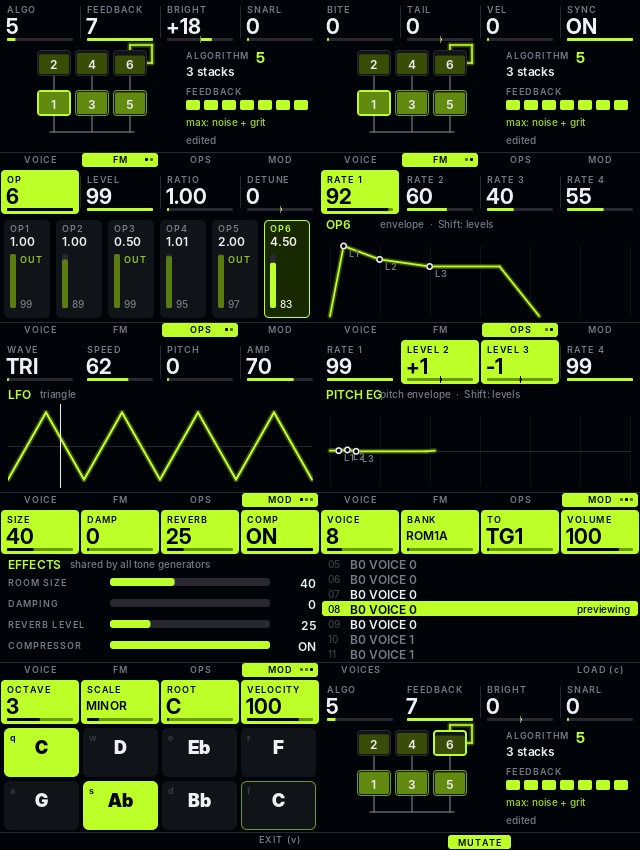
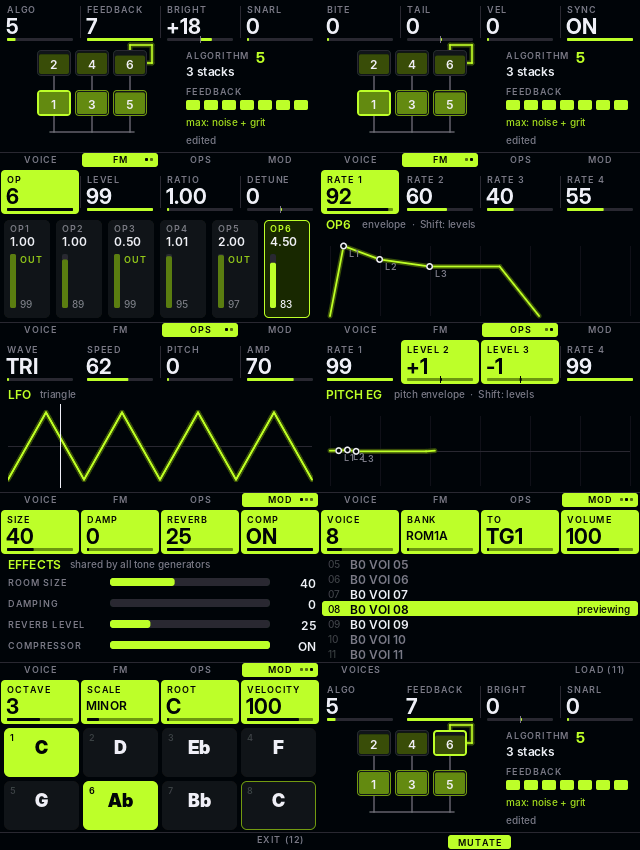
Number the keys 1-12 on screen, in docs and keymap
Claude-Session: https://claude.ai/code/session_01Wubh9qfz4yxQm7mE8iBdPv

diff --git a/tools/mockups/render_mockups.py b/tools/mockups/render_mockups.py
@@ -364,7 +364,7 @@ def page_browse(cv, sel=2):
         cv.text(30, y, name, BODY, INK if i == sel else (WHITE if abs(i - sel) == 1 else GREY))
         if i == sel:
             cv.text(200, y + 1, "playing preview", SMALL, INK, "right", 110)
-    footer(cv, labels=["VOICES", "PERFS", "", "LOAD (c)"], page=0)
+    footer(cv, labels=["VOICES", "PERFS", "", "LOAD (11)"], page=0)
 
 
 def page_keys(cv):
@@ -378,8 +378,8 @@ def page_keys(cv):
         root = n == "C"
         cv.rect(x, y, kw, kh, cv.a if pressed else PANEL, r=6, outline=dk(cv.a, 0.6) if root and not pressed else None)
         cv.text(x, y + 6, n, BIG, INK if pressed else WHITE, "center", kw)
-        cv.text(x + 6, y + 3, "qwerasdf"[i], LBL, INK if pressed else DIM)
-    footer(cv, labels=["", "", "", "EXIT (v)"])
+        cv.text(x + 6, y + 3, str(i + 1), LBL, INK if pressed else DIM)
+    footer(cv, labels=["", "", "", "EXIT (12)"])
 
 
 SHIFT = [
@@ -405,7 +405,7 @@ def page_shift(cv):
             lab = SHIFT[r][c]
             held = (r, c) == (2, 0)
             cv.rect(x, y, kw, kh, cv.a if held else PANEL, r=5)
-            cv.text(x + 6, y + 3, "qwerasdfzxcv"[r * 4 + c], LBL, INK if held else DIM)
+            cv.text(x + 6, y + 3, str(r * 4 + c + 1), LBL, INK if held else DIM)
             cv.text(x, y + 13, lab, BODY, INK if held else WHITE, "center", kw)
             cv.text(x, y + 26, NORMAL[r][c].lower(), ("Inter-Medium", 9), INK if held else GREY, "center", kw)
 
@@ -443,7 +443,7 @@ def device_frame(img, scale=2):
         for c in range(4):
             x, y = pad + c * kw + 6, ky + r * 92
             d.rounded_rectangle([x, y, x + kw - 12, y + 84], 10, fill=(250, 250, 250), outline=(200, 200, 205))
-            d.text((x + 10, y + 8), "qwerasdfzxcv"[r * 4 + c], fill=(150, 150, 155), font=F("Inter-SemiBold", 14))
+            d.text((x + 10, y + 8), str(r * 4 + c + 1), fill=(150, 150, 155), font=F("Inter-SemiBold", 14))
             d.text((x + 10, y + 56), NORMAL[r][c], fill=(60, 60, 65), font=F("Inter-SemiBold", 14))
     return fr
 

diff --git a/src/ui/zicui.cpp b/src/ui/zicui.cpp
@@ -21,7 +21,6 @@ static const KeyDef kKeyDefs[kKeyCount] = {
 	{ "TG MUTE", "< tg" },   { "TG SOLO", "tg >" },    { "SAVE VCE", "browse" }, { "SAVE PRF", "mix" },
 	{ "SHIFT", "shift" },    { "KEYS", "play" },       { "REVERT", "compare" }, { "MENU", "exit" },
 };
-static const char kKeyCaps[] = "qwerasdfzxcv";
 
 static void upper(char* dst, const char* src, int n)
 {
@@ -237,7 +236,8 @@ void Ui::drawMap()
 			int k = r * 4 + c, x = 4 + c * (kw + 2), y = 30 + r * 44;
 			bool held = k == K_Z;
 			g_.roundRect((float)x, (float)y, (float)kw, (float)kh, 5, held ? accent() : PANEL);
-			char cap[2] = { kKeyCaps[k], 0 };
+			char cap[3] = { 0, 0, 0 };                       // keys are numbered 1..12, top left to bottom right
+			if (k + 1 >= 10) { cap[0] = '1'; cap[1] = (char)('0' + (k + 1 - 10)); } else cap[0] = (char)('0' + k + 1);
 			g_.text(x + 6, y + 3, cap, fLbl, held ? INK : DIM);
 			g_.textAligned(x, y + 11, kw, kKeyDefs[k].shifted, fBody, held ? INK : WHITE, AL_CENTER);
 			g_.textAligned(x, y + 25, kw, kKeyDefs[k].normal, fTiny, held ? INK : GREY, AL_CENTER);

diff --git a/src/ui/soundpages.cpp b/src/ui/soundpages.cpp
@@ -376,7 +376,7 @@ public:
 
 	const char* const* keyLabels(Ctx&, int) override
 	{
-		static const char* const l[4] = { "VOICES", "", "", "LOAD (c)" };
+		static const char* const l[4] = { "VOICES", "", "", "LOAD (11)" };
 		return l;
 	}
 
@@ -495,7 +495,7 @@ public:
 
 	const char* const* keyLabels(Ctx&, int) override
 	{
-		static const char* const l[4] = { "", "", "", "EXIT (v)" };
+		static const char* const l[4] = { "", "", "", "EXIT (12)" };
 		return l;
 	}
 
@@ -559,7 +559,7 @@ private:
 			g.fillRect(x, y, kw, kh, BG);
 			g.roundRect((float)x, (float)y, (float)kw, (float)kh, 6, on ? c.accent : PANEL, (root && !on) ? dim(c.accent, 153) : Gfx::NoColor, 1.f);
 			g.textAligned(x, y + 8, kw, k.keyLabel(i), fHead, on ? INK : WHITE, AL_CENTER);
-			char cap[2] = { "qwerasdf"[i], 0 };
+			char cap[2] = { (char)('1' + i), 0 };
 			g.text(x + 6, y + 4, cap, fLbl, on ? INK : DIM);
 		}
 	}

diff --git a/docs/firmware-ui.md b/docs/firmware-ui.md
@@ -16,7 +16,7 @@ The screens in [ui-design.md](ui-design.md) run as real code. This page is for w
 ## Screen model
 
 - Top 44 px: one **lane** per encoder (label, value, bar). Turning a knob lights its lane for 0.6 s.
-- Middle 108 px: the page's picture. Bottom 18 px: labels for q w e r, sub-page dots, toasts.
+- Middle 108 px: the page's picture. Bottom 18 px: labels for keys 1-4, sub-page dots, toasts.
 - Everything takes the current TG's colour (`kTGColor`).
 - Only changed pixels go to the panel. `Ui::tick()` runs the live parts (scope, level ticks, TG dots) at 25 fps and skips them when nothing moves, so an idle screen sends nothing. `CZicUI::Flush()` sends at most 2400 pixels per main-loop pass so MIDI and USB are never starved by SPI.
 
@@ -24,7 +24,7 @@ The screens in [ui-design.md](ui-design.md) run as real code. This page is for w
 
 1. Implement `zic::Page` (`src/ui/zicpage.h`): `lane()` gives label/text/bar for each encoder, `turn()` applies an encoder step, `draw()` paints the picture, `tick()` updates its live parts, optional `keyLabels()` and `key()`.
 2. Talk to the synth only through `ISynth` (`src/ui/zicsynth.h`). Voices are the 155-byte unpacked DX7 layout; there are calls for loading and reading voices, notes, bank reading, reverb/compressor, mute and metering. The logic layer's `VoiceSink`, `ParamBus` and `BankSource` map one to one onto them.
-3. Add a factory to `zicpages.h` and one line to `RegisterPages()` in `src/ui/zicregistry.cpp`. The slot decides which key reaches it (`SLOT_FM` = w, `SLOT_OPS` = e, `SLOT_MOD` = r, `SLOT_BROWSE` = d, `SLOT_KEYS` = Shift+x). An empty slot shows a "not in this build" toast.
+3. Add a factory to `zicpages.h` and one line to `RegisterPages()` in `src/ui/zicregistry.cpp`. The slot decides which key reaches it (`SLOT_FM` = key 2, `SLOT_OPS` = key 3, `SLOT_MOD` = key 4, `SLOT_BROWSE` = key 7, `SLOT_KEYS` = Shift+key 10). An empty slot shows a "not in this build" toast.
 4. Add the page to `tools/sim/sim.cpp` for a screenshot and to `tests/ui/ui_test.cpp`.
 
 `Ctx` hands a page the `Gfx`, the `ISynth`, the `Ui` (current TG, mute/solo, smoothed level meter) and the clock. Encoder steps arrive already accelerated; with Shift held the raw step arrives and `fine` is true.
@@ -33,13 +33,13 @@ The screens in [ui-design.md](ui-design.md) run as real code. This page is for w
 
 | | |
 |---|---|
-| Keys | `q w e r / a s d f / z x c v` on GPIO `20 16 25 14 / 12 1 24 15 / 7 8 23 22`, active low, 6 ms debounce |
+| Keys | Keys 1-12, numbered top left to bottom right (rows 1-4 / 5-8 / 9-12), on GPIO `20 16 25 14 / 12 1 24 15 / 7 8 23 22`, active low, 6 ms debounce |
 | Encoders | 1..4 on GPIO `26/13, 6/5, 0/9, 27/4`, interrupt driven. Turn speed sets the step: under 12 ms per click x6, under 25 ms x3, under 60 ms x2, else x1 |
 | Direction | `ZicEncoderInvert` in `minidexed.ini`: bit n reverses encoder n+1 |
 
-Implemented keys in this build: `q` VOICE (press again for sub-pages), `f` MIX, `a`/`s` TG-/TG+, `x` PLAY (hold), `c` COMPARE (hold), `v` EXIT home (hold 0.7 s = panic), `z` SHIFT (hold 0.25 s shows the key map; `Shift+a` TG mute, `Shift+s` TG solo, `Shift+c` revert, `Shift+v` stock menu). 
+Keys: 1 VOICE (press again for sub-pages), 2 FM, 3 OPS, 4 MOD, 5/6 TG-/TG+, 7 BROWSE, 8 MIX, 9 SHIFT (hold 0.25 s shows the key map), 10 PLAY (hold), 11 COMPARE (hold), 12 EXIT home (hold 0.7 s = panic). With Shift: 1 INIT, 2 MUTATE, 3 OP MUTE, 4 FX, 5 TG mute, 6 TG solo, 7 SAVE VOICE, 8 SAVE PERFORMANCE, 10 KEYS pads, 11 revert, 12 stock menu.
 
-In the stock menu: `v` select, `c` back, `d` home, `a`/`s` program, `q`/`w` TG, `e`/`r` bank, any encoder scrolls, `Shift+v` returns to the ZicDexed screens.
+In the stock menu: key 12 select, key 11 back, key 7 home, keys 5/6 program, keys 1/2 TG, keys 3/4 bank, any encoder scrolls, Shift+key 12 returns to the ZicDexed screens.
 
 ## ini keys (config/minidexed.ini)
 
@@ -54,10 +54,10 @@ With `ZicUI=1` the stock `ButtonPin*` and `EncoderEnabled` must be off (the ship
 ## Checks on the hardware
 
 1. Screen shows VOICE in the TG1 colour, not shifted or flipped (`ST7789Rotation` if so).
-2. Each key does something (q f a s x c v z); z, x, r, f are the ones that share pins with SPI and UART.
+2. Each key does something; keys 9, 10, 4 and 8 are the ones that share pins with SPI and UART.
 3. Each encoder lights its own lane; if one runs backwards set its bit in `ZicEncoderInvert`.
 4. With a USB keyboard playing: the scope moves, the TG dots light, MIX level ticks follow.
-5. Hold `x` and hear a note with nothing plugged in; hold `c` and hear the stored voice, release and get your edit back.
+5. Hold key 10 and hear a note with nothing plugged in; hold key 11 and hear the stored voice, release and get your edit back.
 
 ## Sound-design pages (FM, OPS, ENV, MOD, BROWSE, KEYS)
 
@@ -65,14 +65,14 @@ With `ZicUI=1` the stock `ButtonPin*` and `EncoderEnabled` must be off (the ship
 
 | Key | Page |
 |---|---|
-| `w` | FM: Algo, Feedback, Bright, Snarl. Press again: Bite, Tail, Vel, Sync |
-| `e` | OPS: Op, Level, Ratio (Shift = fine), Detune. Press again: operator envelope, rates (Shift = levels) |
-| `r` | MOD: LFO (wave, speed, pitch, amp), pitch EG, FX (reverb size, damping, level, compressor) |
-| `d` | BROWSE: turning Voice previews on the target TG; `c` loads, leaving the page undoes the preview |
-| `Shift+x` | KEYS: `q w e r a s d f` play the current scale on the current TG |
-| `Shift+q/w/e` | INIT, MUTATE, OP MUTE (selected operator) |
-| `Shift+r` | FX: jumps to the MOD page's effects sub-page |
-| `Shift+d` | SAVE VOICE: writes the edit voice into the user bank `sysex/voice/000099_ZICUSER.syx` (bank 99; same name = same slot, otherwise the next free one). It shows up in BROWSE after a restart |
-| `Shift+f` | SAVE PERFORMANCE: needs a `performance` folder at the card root (MiniDexed refuses to save without it; `build.sh` puts an empty one in `out/`, copy it over). Overwrites the current performance, i.e. every TG's voice (edits included), levels, pans and the effects |
+| Key 2 | FM: Algo, Feedback, Bright, Snarl. Press again: Bite, Tail, Vel, Sync |
+| Key 3 | OPS: Op, Level, Ratio (Shift = fine), Detune. Press again: operator envelope, rates (Shift = levels) |
+| Key 4 | MOD: LFO (wave, speed, pitch, amp), pitch EG, FX (reverb size, damping, level, compressor) |
+| Key 7 | BROWSE: turning Voice previews on the target TG; key 11 loads, leaving the page undoes the preview |
+| Shift+key 10 | KEYS: keys 1-8 play the current scale on the current TG |
+| Shift+keys 1/2/3 | INIT, MUTATE, OP MUTE (selected operator) |
+| Shift+key 4 | FX: jumps to the MOD page's effects sub-page |
+| Shift+key 7 | SAVE VOICE: writes the edit voice into the user bank `sysex/voice/000099_ZICUSER.syx` (bank 99; same name = same slot, otherwise the next free one). It shows up in BROWSE after a restart |
+| Shift+key 8 | SAVE PERFORMANCE: needs a `performance` folder at the card root (MiniDexed refuses to save without it; `build.sh` puts an empty one in `out/`, copy it over). Overwrites the current performance, i.e. every TG's voice (edits included), levels, pans and the effects |
 
 The hub keeps one `EditSession` per TG and re-reads the synth's live voice on every entry point, so COMPARE, revert, program changes and SysEx all show up. FM macro amounts reset to 0 when that happens. OP MUTE only silences the sound. SAVE VOICE saves the edit voice, so muted operators are saved at their real level; SAVE PERFORMANCE saves what the synth is playing, so un-mute first.

diff --git a/docs/ui-design.md b/docs/ui-design.md
@@ -10,7 +10,7 @@ The 4 encoders sit **above** the screen and the 12 keys sit **below** it. So the
 |---|---|---|
 | Encoder lanes | top 44 px | One lane per knob, directly under it: label, big value, value bar (bipolar ones grow from the centre). Turning a knob lights its lane up solid for a moment, which is the "you touched this" feedback |
 | Picture | middle ~106 px | Each page's hero visual: voice name with a live scope, algorithm, operators, envelope, LFO, mixer strips |
-| Key labels | bottom 16 px | Labels for the top key row (q w e r), the row nearest the screen. Dots show sub-pages |
+| Key labels | bottom 16 px | Labels for the top key row (keys 1-4), the row nearest the screen. Dots show sub-pages |
 
 ## 2. Colour and type
 
@@ -21,17 +21,19 @@ The 4 encoders sit **above** the screen and the 12 keys sit **below** it. So the
 ## 3. Key map
 
 ```
- q VOICE    w FM       e OPS       r MOD        ← direct page keys; press again for sub-page
- a < TG     s TG >     d BROWSE    f MIX
- z SHIFT    x PLAY     c COMPARE   v EXIT
+ 1 VOICE    2 FM       3 OPS       4 MOD        ← direct page keys; press again for sub-page
+ 5 < TG     6 TG >     7 BROWSE    8 MIX
+ 9 SHIFT    10 PLAY    11 COMPARE  12 EXIT
+
+Keys are numbered 1-12, top left to bottom right.
 ```
 
 **With Shift held,** the screen turns into a live map of these (mockup 09):
 
 ```
- q INIT     w MUTATE   e OP MUTE   r FX
- a TG MUTE  s TG SOLO  d SAVE VCE  f SAVE PRF
- z (held)   x KEYS     c REVERT    v MENU
+ 1 INIT     2 MUTATE   3 OP MUTE   4 FX
+ 5 TG MUTE  6 TG SOLO  7 SAVE VCE  8 SAVE PRF
+ 9 (held)   10 KEYS    11 REVERT   12 MENU
 ```
 
 - **Page keys** jump straight to a page, so there's no cycling. Pressing a page key again moves through its sub-pages:
@@ -44,7 +46,7 @@ The 4 encoders sit **above** the screen and the 12 keys sit **below** it. So the
 - **INIT:** loads a basic starting voice.
 - **Shift + encoder:** fine steps.
 - **Fast turns** accelerate. That matters for the DX7's 0-99 ranges on encoders with no push switch.
-- **Long-press v:** panic (all notes off).
+- **Long-press key 12:** panic (all notes off).
 
 ## 4. Pages (mockups 01-09)
 
@@ -55,8 +57,8 @@ The 4 encoders sit **above** the screen and the 12 keys sit **below** it. So the
 | 03 OPS | Op, Level, Ratio, Detune | 6 operator cards: ratio, level bar, carriers marked OUT, selected card outlined |
 | 04 OPS → envelope | Rate 1-4 (Shift: Level 1-4) | The selected operator's envelope drawn live |
 | 05 MOD | Wave, Speed, Pitch depth, Amp depth | LFO waveform with a moving phase line. Sub-pages: pitch EG, then FX (reverb, compressor, GRIT later) |
-| 06 MIX | TG, Volume, Pan, Reverb | 8 channel strips in their TG colours, with live level ticks and mute state. q/w mute/solo here |
-| 07 BROWSE | Voice, Bank, Target TG, Volume | List. Turning the knob previews each voice live. c loads, v cancels |
+| 06 MIX | TG, Volume, Pan, Reverb | 8 channel strips in their TG colours, with live level ticks and mute state. keys 1/2 mute/solo here |
+| 07 BROWSE | Voice, Bank, Target TG, Volume | List. Turning the knob previews each voice live. key 11 loads, key 12 cancels |
 | 08 KEYS | Octave, Scale, Root, Velocity | The 8 upper keys become a playable scale |
 | 09 SHIFT | (encoders give fine steps) | Key map of the Shift functions |
 
@@ -81,5 +83,5 @@ Unchanged from v1:
 1. **Hardware:** all 12 keys and all 4 encoders with acceleration.
 2. **UI framework:** lanes, key-label band, the VOICE and MIX pages, and COMPARE/PLAY. This is the first flashable build.
 3. **Sound-design pages:** FM, OPS and envelope, plus the macros and MUTATE.
-4. **BROWSE, KEYS and the Shift map.** The stock menu stays as a fallback under Shift+v.
+4. **BROWSE, KEYS and the Shift map.** The stock menu stays as a fallback under Shift+key 12.
 5. **MOD page,** then the optional GRIT effect.

diff --git a/README.md b/README.md
@@ -2,11 +2,11 @@
 
 MiniDexed (8 x DX7 FM synth, bare metal) for the **ZicPixel** hardware. It uses the 320x170 screen, all 4 encoders and all 12 keys, with a control layout taken from zicBox.
 
-Hardware: Pi Zero 2 W, ST7789 1.9" 170x320 on SPI0 (DC GPIO3, RST GPIO17, no CS, SPI mode 3), PCM5102 I2S DAC, 4 encoders without push (26/13, 6/5, 0/9, 27/4), 12 keys q20 w16 e25 r14 / a12 s1 d24 f15 / z7 x8 c23 v22 (active low).
+Hardware: Pi Zero 2 W, ST7789 1.9" 170x320 on SPI0 (DC GPIO3, RST GPIO17, no CS, SPI mode 3), PCM5102 I2S DAC, 4 encoders without push (26/13, 6/5, 0/9, 27/4), 12 keys, numbered 1-12 from top left to bottom right, on GPIO 20 16 25 14 / 12 1 24 15 / 7 8 23 22 (active low).
 
 ## Status
 
-First flashable build of the new UI: the screen framework (lanes, key band, per-TG colour, Shift key map), all 12 keys and 4 encoders with acceleration, the VOICE and MIX pages, PLAY and COMPARE, and the stock menu under Shift+v. FM, OPS, MOD, BROWSE and KEYS are the next pages and show a "not in this build" toast. The design is in [docs/ui-design.md](docs/ui-design.md), how it is built is in [docs/firmware-ui.md](docs/firmware-ui.md).
+First flashable build of the new UI: the screen framework (lanes, key band, per-TG colour, Shift key map), all 12 keys and 4 encoders with acceleration, the VOICE and MIX pages, PLAY and COMPARE, and the stock menu under Shift+key 12. FM, OPS (with envelopes), MOD (LFO, pitch EG, FX), BROWSE and KEYS pages, INIT, MUTATE, OP MUTE, SAVE VOICE and SAVE PERFORMANCE are on the sound-design branch. The design is in [docs/ui-design.md](docs/ui-design.md), how it is built is in [docs/firmware-ui.md](docs/firmware-ui.md).
 
 ![simulated screens](docs/screens/simulated_contact_sheet.png)
 
